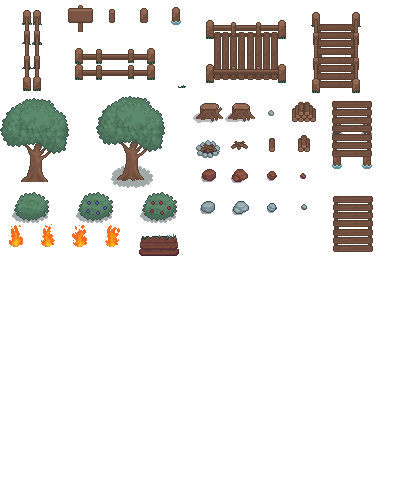
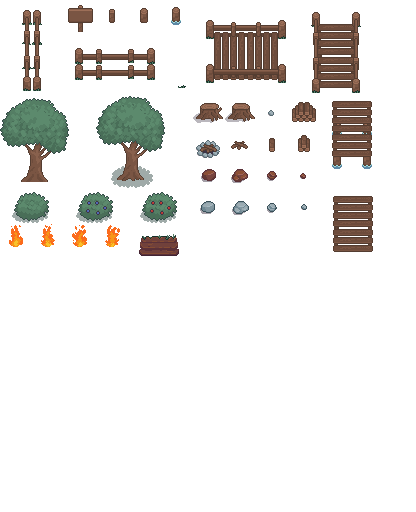
feat(accessibility): add audio and readability settings

diff --git a/ASSET_LEDGER.md b/ASSET_LEDGER.md
@@ -41,6 +41,12 @@ Every asset imported into the Godot project must have a row with these fields be
 | RPG UI status and item icons | https://opengameart.org/content/rpg-ui-icons | OwlishMedia | CC0 | Yes, CC0 permits commercial use. | Yes, CC0 permits APK bundling. | Yes for downloaded CC0 files and license proof. | Yes, CC0 permits edits. | Optional: `RPG UI Icons by OwlishMedia, CC0.` | Yes, because the source page lists the download under CC0. | Approved for UI prototyping and icon placeholders. |
 | 16x16 overworld tiles | https://opengameart.org/content/16x16-puny-world-tileset | Shade | CC0 | Yes, source page states commercial use is allowed. | Yes, CC0 permits APK bundling. | Yes for downloaded CC0 files and license proof. | Yes, source page states modification is allowed. | Optional: `16x16 Puny World Tileset by Shade, CC0.` | Yes, because the source page lists the file under CC0. | Approved fallback if scale and palette match the final art direction. |
 
+## Imported Runtime Registration
+
+| asset role | source URL | author | license | commercial-use status | APK redistribution status | public repo redistribution status | modification permission | required attribution text | original paid/download files allowed to be committed | intake decision |
+| --- | --- | --- | --- | --- | --- | --- | --- | --- | --- | --- |
+| Selected Diamond runtime PNGs: `assets/diamond/runtime/enemy_boar.png`, `assets/diamond/runtime/fx_fire.png`, `assets/diamond/runtime/icon_broadsword.png`, `assets/diamond/runtime/icon_buckler.png`, `assets/diamond/runtime/icon_hp_potion.png`, `assets/diamond/runtime/icon_mp_potion.png`, `assets/diamond/runtime/icon_sack.png`, `assets/diamond/runtime/player_female.png`, `assets/diamond/runtime/player_male.png`, `assets/diamond/runtime/tile_grass.png`, `assets/diamond/runtime/tile_props.png`, `assets/diamond/runtime/ui_skill_bash.png`, `assets/diamond/runtime/ui_skill_shield_block.png`, `assets/diamond/runtime/ui_skill_whirlwind.png` | https://dotmancer.itch.io/diamond-top-down-pixel-art | Dotmancer | CC0 1.0 Universal, bundled proof `assets/licenses/diamond-top-down-pixel-art-LICENSE.txt` | Yes, bundled license states commercial games are allowed. | Yes, CC0 permits bundling runtime assets in the APK. | Yes for the listed project-ready extracted CC0 files and license proof. Do not commit the whole zip archive. | Yes, bundled license permits modification; do not resell the edited asset pack as an asset pack. | Optional: `Diamond Top Down Pixel Art Pack by Dotmancer, CC0.` | No for the original zip; yes for the listed selected runtime files and license proof. | Imported runtime files approved for audit registration. |
+
 ## Allowed Licenses
 
 | license | allowed for closed commercial APK | allowed in public repository | attribution requirement | notes |